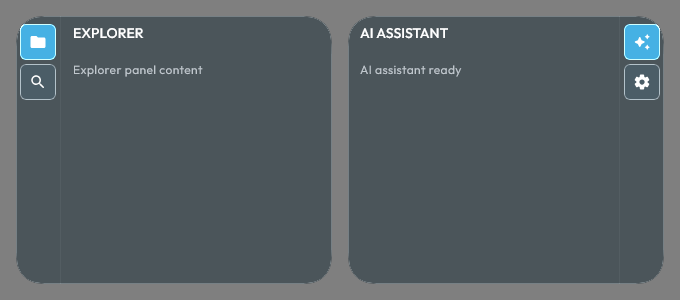
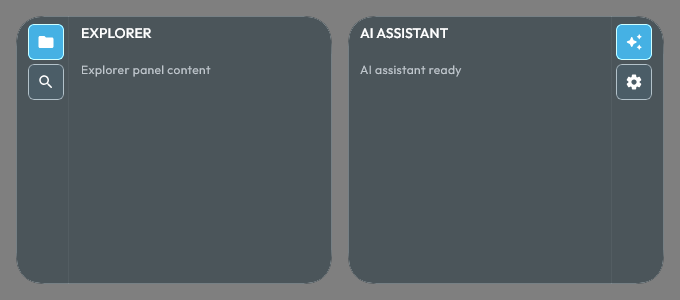
Balance side panel rail button spacing toward the window edge
The rail button and its icon glyph were already correctly centered
within their own container (verified with a temporary debug-colored
probe on the rail column, then reverted) - but the rail's padding was
symmetric (4dp each side) while an additional Spacing.Small (8dp) gap
plus the divider hairline sit between the rail and the panel's visible
border on the inner side only. That left ~4dp toward the window edge vs
~12.5dp toward the panel, reading as the icon being pushed toward the
edge even though it was never actually off-center.

Widened the rail's outer-edge padding (window-edge side) from
Spacing.ExtraSmall to Spacing.SmallMedium so the total gap roughly
matches the inner side, applied per railPosition since Left/Right rails
mirror which side is "outer" vs "inner".

Verified with a clean before/after pixel comparison at the same 1:1
test-harness scale: button's left margin moved from 8px to 16px, exactly
matching the coded +8dp delta. Forced compile/detekt/guardrails + full
test suite, and two independent fresh-daemon screenshot regenerations
confirmed the five affected baselines (chrome composition x2 themes,
side panel tabs x2 themes, combined chrome+tabs) are deterministic while
every other baseline in the suite stayed untouched.

Claude-Session: https://claude.ai/code/session_0159mNcRLJay2RPBEyxhqFt6

Changed region(s): [[0.0309, 0.06, 0.3088, 0.33], [0.8956, 0.06, 0.9882, 0.33], [0.9574, 0.3, 0.9882, 0.33]]

diff --git a/core/designsystem/src/commonMain/kotlin/org/ide/lti/core/designsystem/component/GlassSidePanelTabs.kt b/core/designsystem/src/commonMain/kotlin/org/ide/lti/core/designsystem/component/GlassSidePanelTabs.kt
@@ -95,7 +95,17 @@ fun GlassSidePanelRail(
     if (tabs.isEmpty()) return
 
     val glassColors = GlassTheme.colors
-    val railWidth = ComponentSize.SidePanelRailButtonSize + Spacing.ExtraSmall * 2
+
+    // The rail's inner edge (facing the divider) is followed by the divider hairline plus the
+    // content area's own Spacing.Small gap before the panel's visible border, while the outer
+    // edge (facing the window edge) has nothing after it - so a symmetric padding here would
+    // leave the rail button visually closer to the window edge than to the panel. Widen the
+    // outer-edge padding to match that combined inner-side gap (divider + content padding) so
+    // the button reads as centered between the window edge and the panel, not just within its
+    // own narrow column.
+    val innerEdgePadding = Spacing.ExtraSmall
+    val outerEdgePadding = Spacing.SmallMedium
+    val railWidth = ComponentSize.SidePanelRailButtonSize + innerEdgePadding + outerEdgePadding
 
     val iconColumn = @Composable {
         Column(
@@ -103,8 +113,8 @@ fun GlassSidePanelRail(
                 .width(railWidth)
                 .fillMaxHeight()
                 .padding(
-                    start = Spacing.ExtraSmall,
-                    end = Spacing.ExtraSmall,
+                    start = if (railPosition == SidePanelRailPosition.Left) outerEdgePadding else innerEdgePadding,
+                    end = if (railPosition == SidePanelRailPosition.Left) innerEdgePadding else outerEdgePadding,
                     top = Spacing.Small,
                     bottom = Spacing.Small,
                 ),
